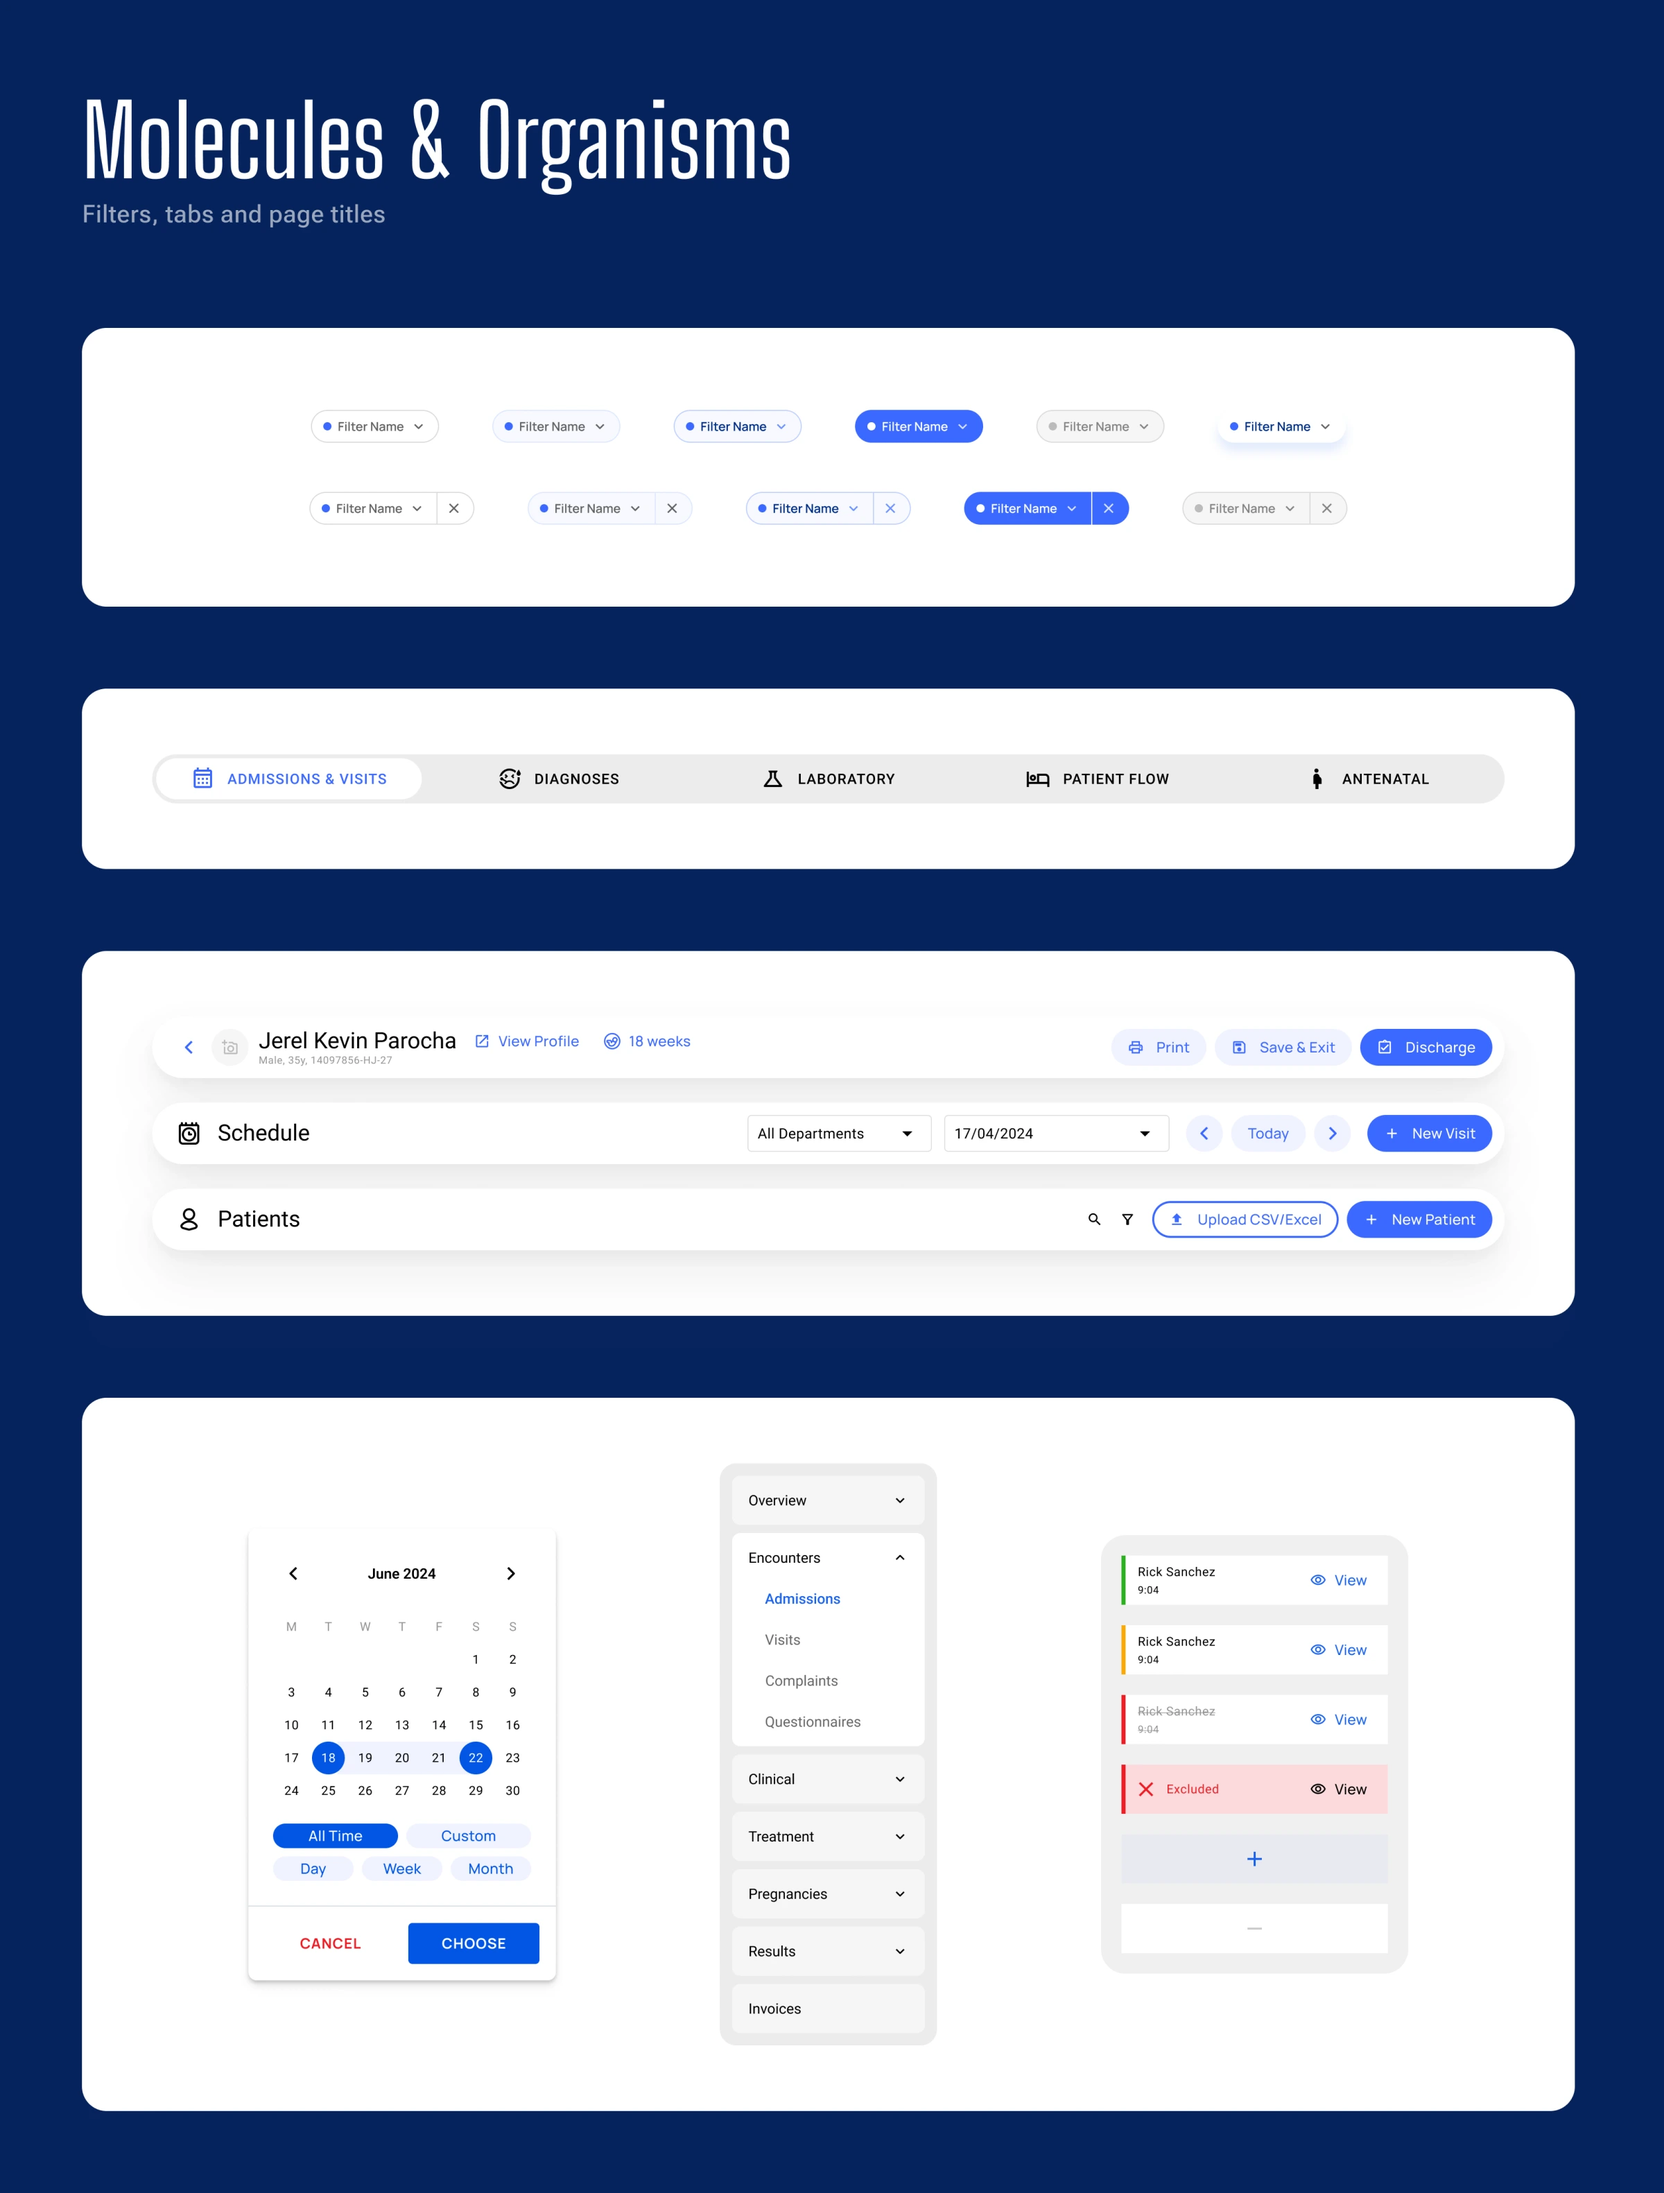
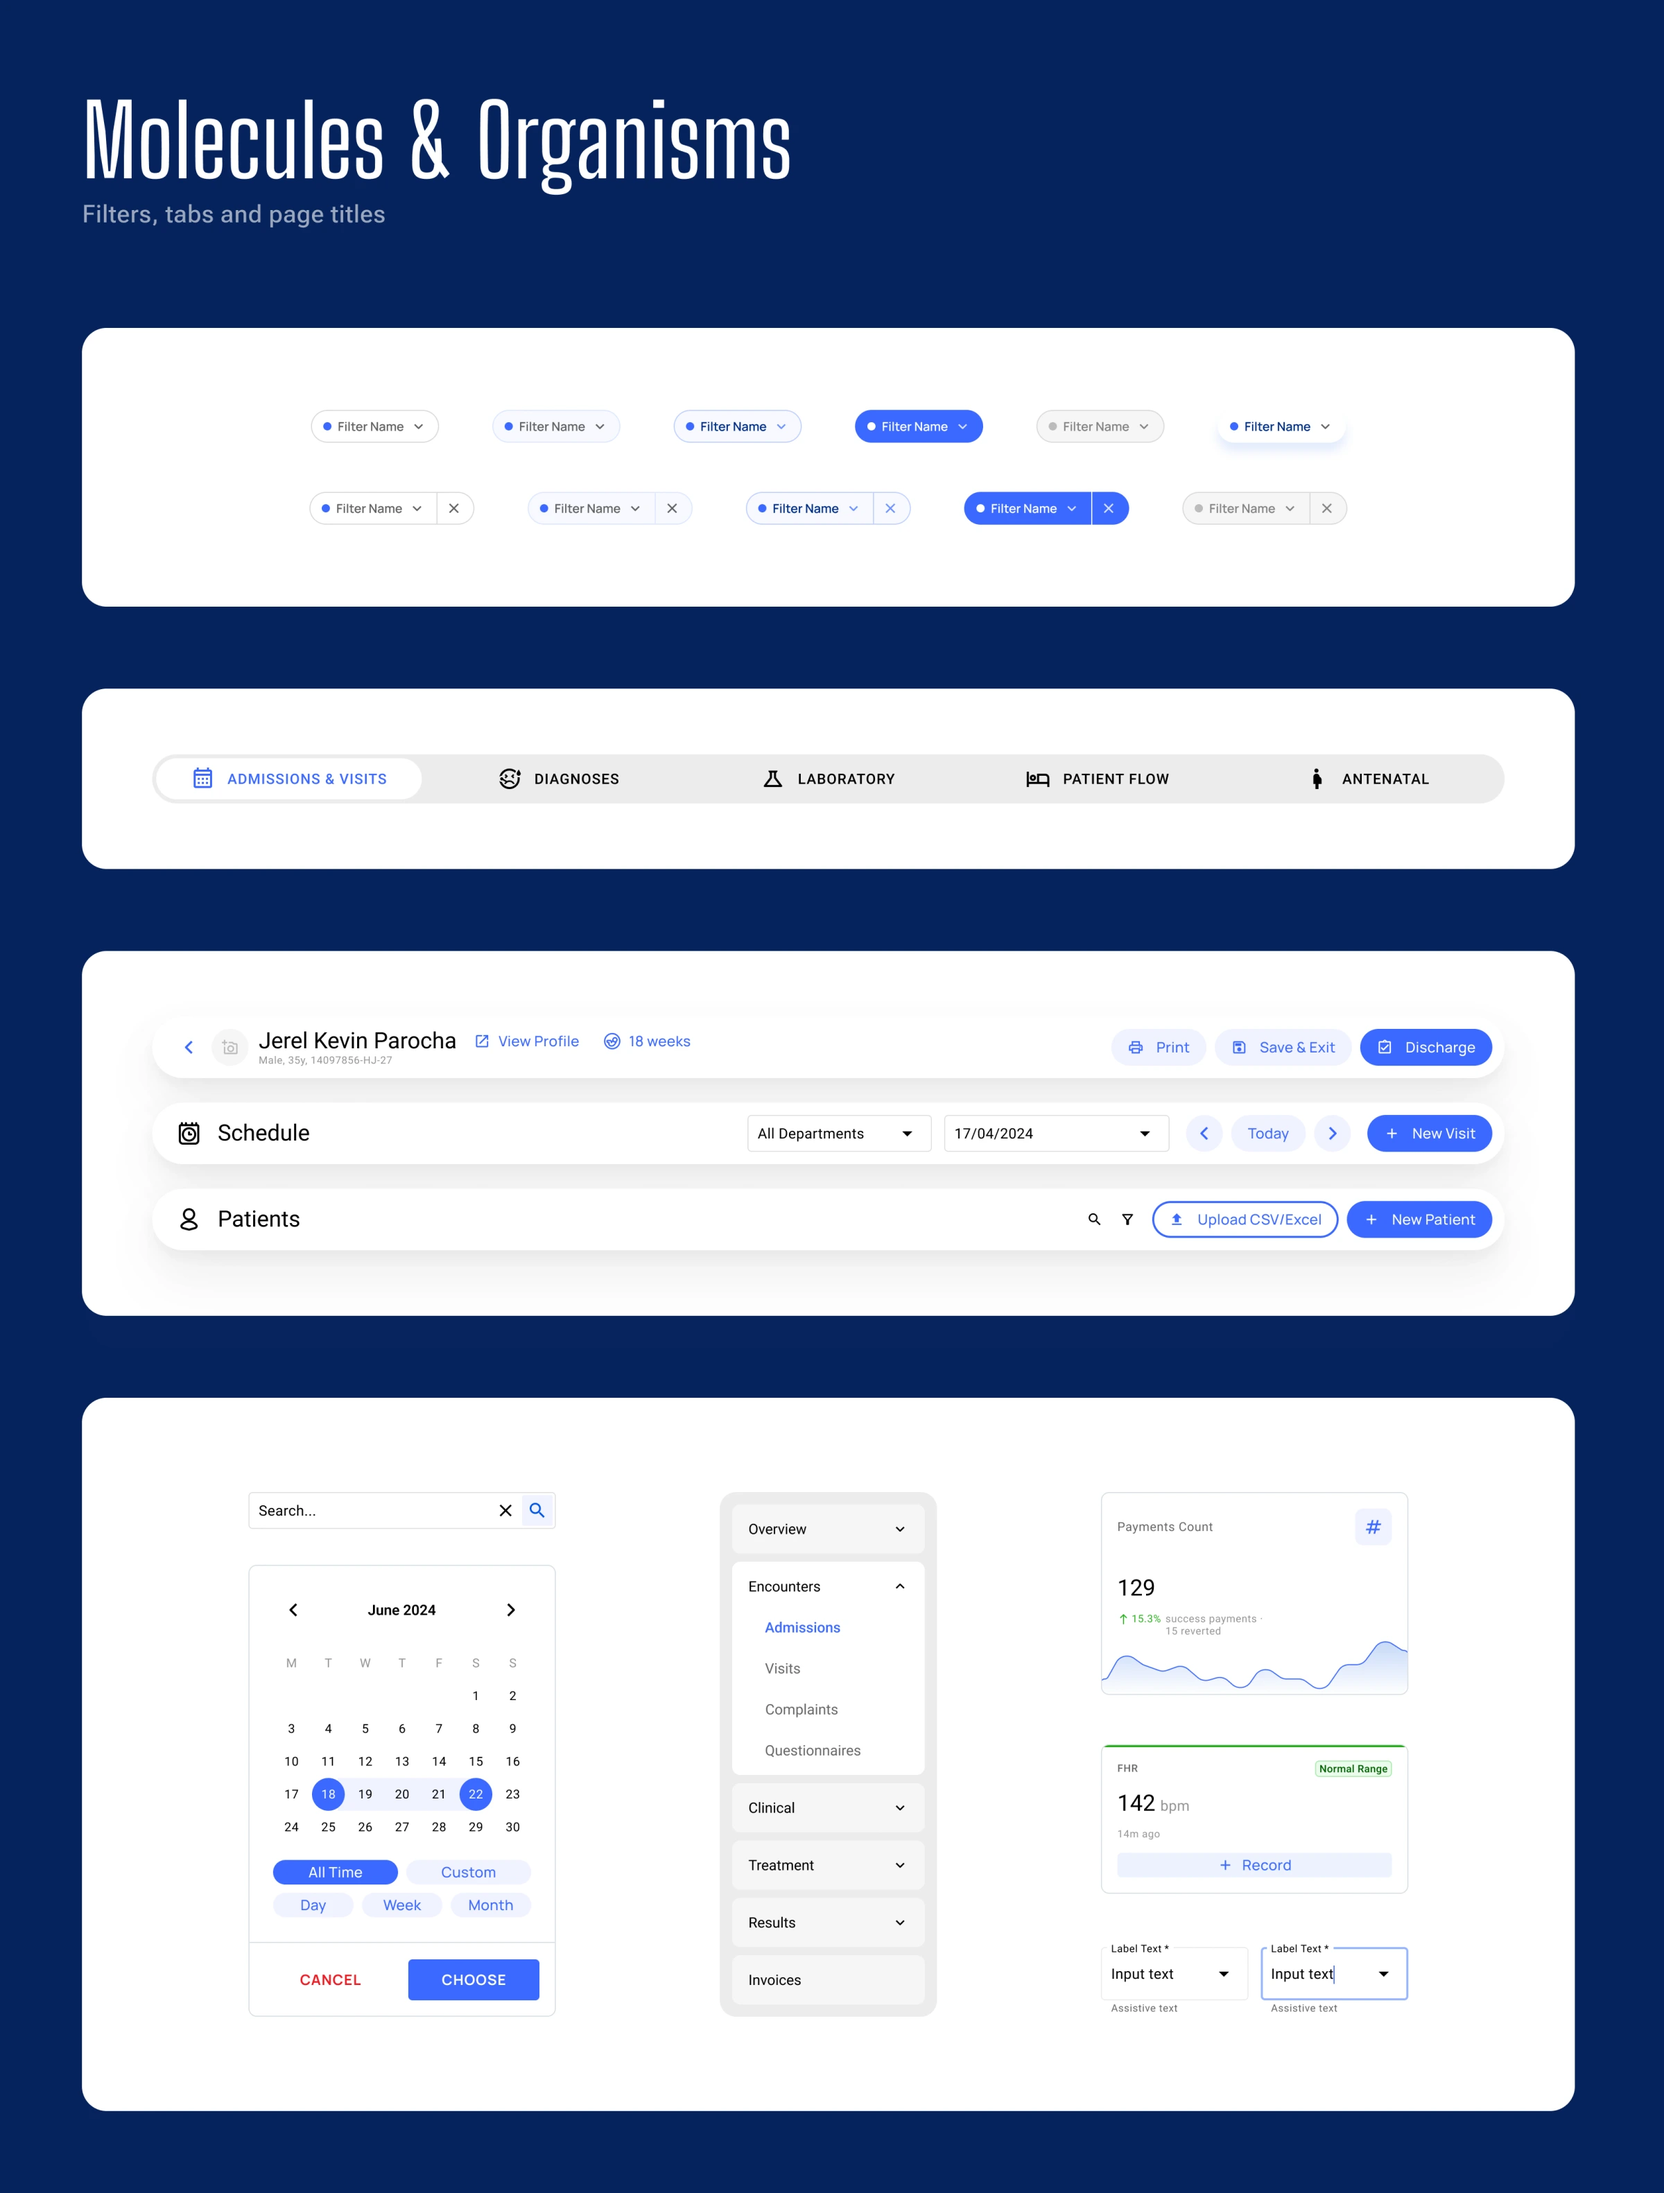
LinkHMS: updated atoms and molecules/organisms sheets

diff --git a/src/content/cases/linkhms.md b/src/content/cases/linkhms.md
@@ -166,7 +166,7 @@ The components follow the atomic approach: small elements first, then the blocks
 
 ![Atoms: buttons, tags, record type chips and small status labels](../../assets/cases/linkhms/design-atoms.webp)
 
-![Molecules and organisms: filters, tabs, page titles, a date picker, a section menu and a list of cards](../../assets/cases/linkhms/design-molecules-organisms.webp)
+![Molecules and organisms: filters, tabs, page titles, a search field, a date picker, a section menu, metric cards and text inputs](../../assets/cases/linkhms/design-molecules-organisms.webp)
 
 </div>
 
